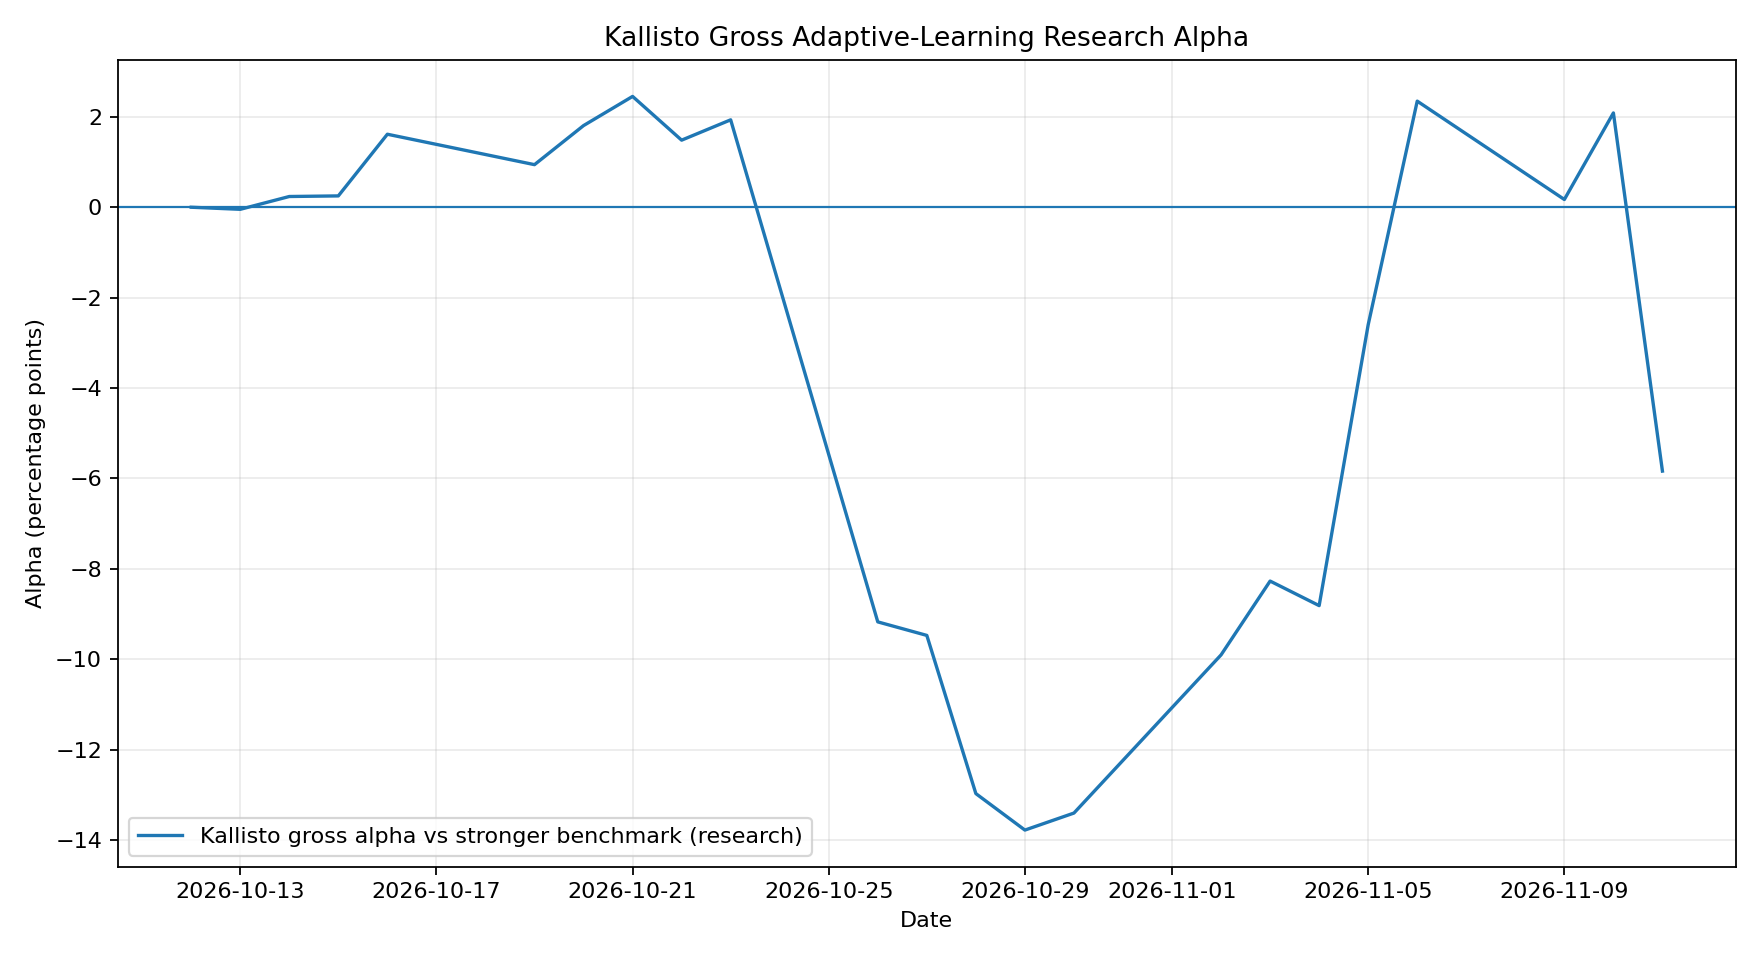
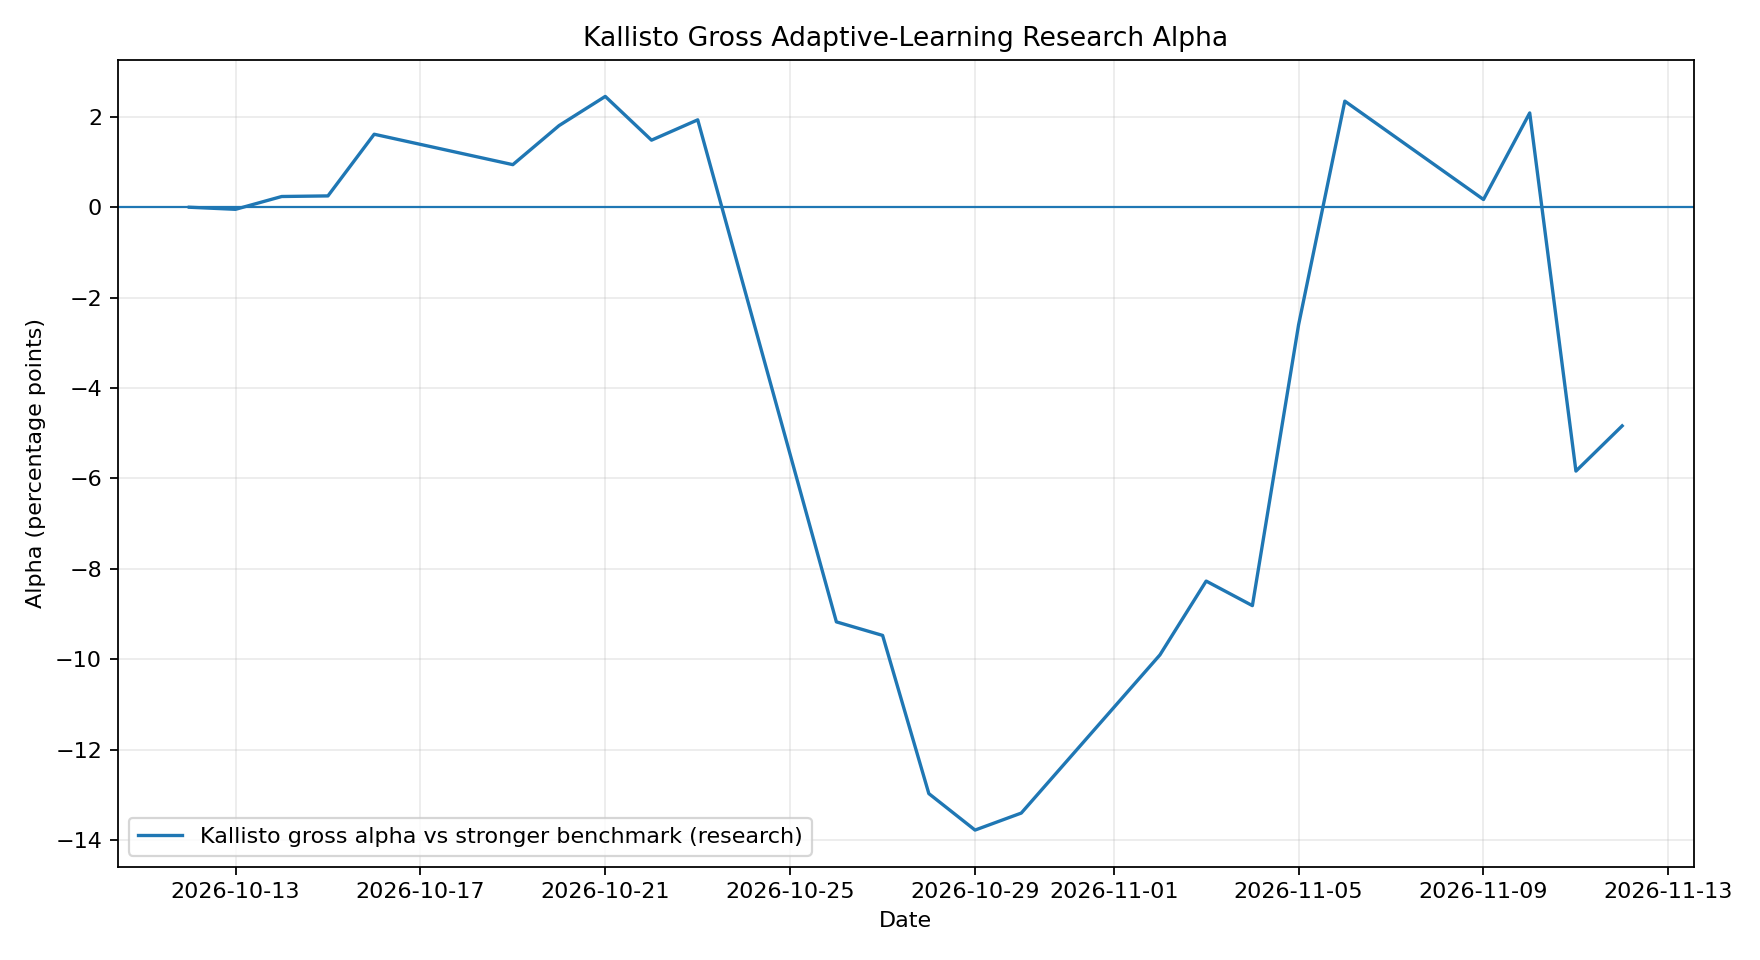
docs: refresh adaptive experiment dashboard

diff --git a/README.md b/README.md
@@ -127,7 +127,7 @@ The frozen `V1.0` risk replay provides a low-cost counterfactual control using t
 | Metric | Current value |
 |---|---:|
 | Strategy version | **V1.2** |
-| Completed sessions | 22 |
+| Completed sessions | 23 |
 | Completed trades | 104 |
 | **Kallisto net equity after modeled Moomoo AU fees** | **$677.53** |
 | **Kallisto net cumulative return** | **-32.25%** |
@@ -138,8 +138,8 @@ The frozen `V1.0` risk replay provides a low-cost counterfactual control using t
 | Frozen V1.0 risk-replay equity | $732.68 |
 | Frozen V1.0 risk-replay return | -26.73% |
 | Gross simulator vs frozen V1.0 risk replay | 33.47% |
-| S&P 500 return from experiment base | -2.34% |
-| Nasdaq-100 return from experiment base | -6.80% |
+| S&P 500 return from experiment base | -2.69% |
+| Nasdaq-100 return from experiment base | -7.07% |
 
 ### Fee treatment
 
@@ -252,10 +252,10 @@ Every paid trading-decision call and weekly evaluator call records token usage a
 <!-- API_COST_SUMMARY_START -->
 | Cost period | API cost (USD) | API calls | Input tokens | Output tokens |
 |---|---:|---:|---:|---:|
-| Average daily | $0.0310 | 20.2 | 129,413 | 4,307 |
-| Average weekly | $0.1364 | 89.0 | 569,417 | 18,951 |
-| Average monthly | $0.3410 | 222.5 | 1,423,542 | 47,378 |
-| **Total actual** | **$0.6819** | **445** | **2,847,083** | **94,755** |
+| Average daily | $0.0314 | 20.9 | 131,374 | 4,330 |
+| Average weekly | $0.1445 | 96.2 | 604,322 | 19,916 |
+| Average monthly | $0.3613 | 240.5 | 1,510,804 | 49,790 |
+| **Total actual** | **$0.7226** | **481** | **3,021,609** | **99,580** |
 <!-- API_COST_SUMMARY_END -->
 
 OpenAI billing remains the source of truth for actual API charges.
